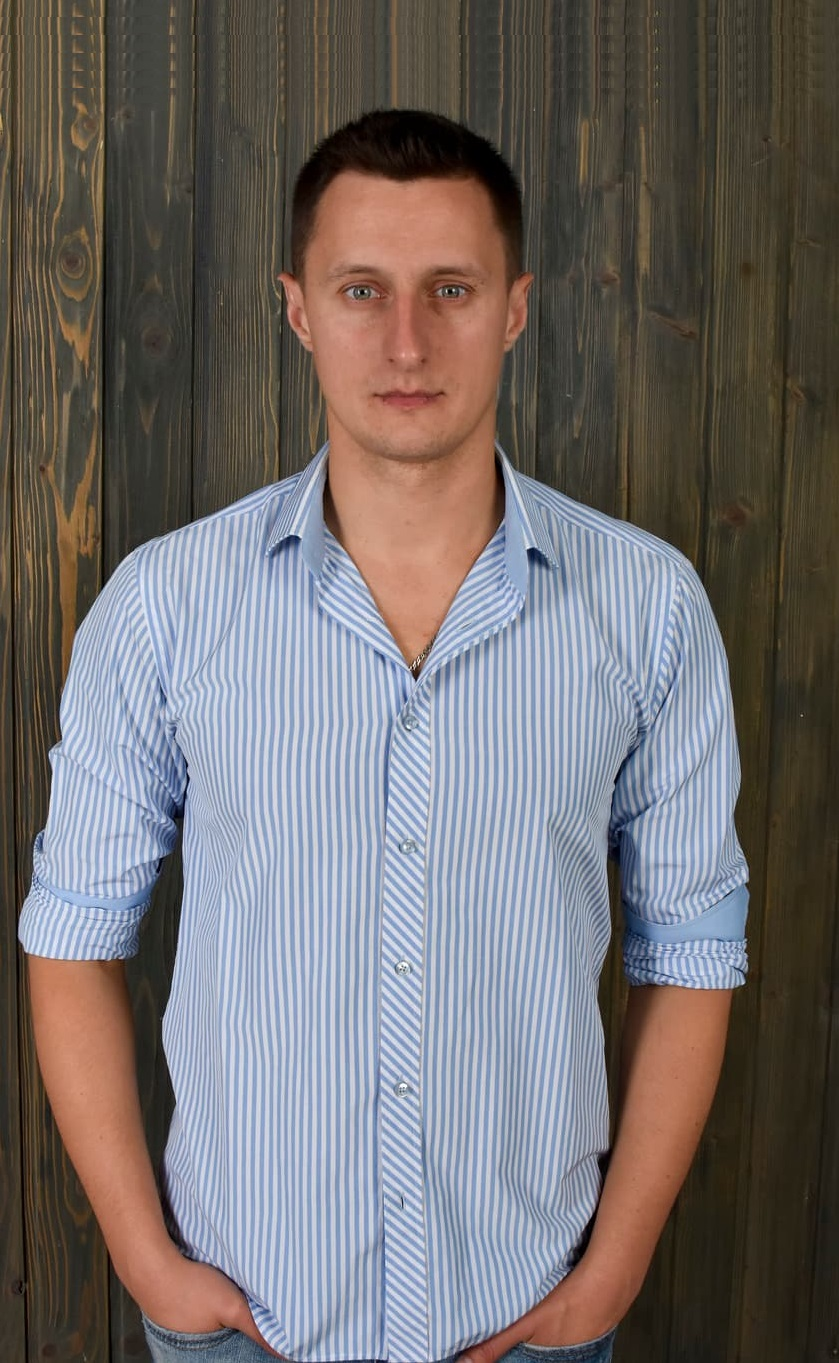
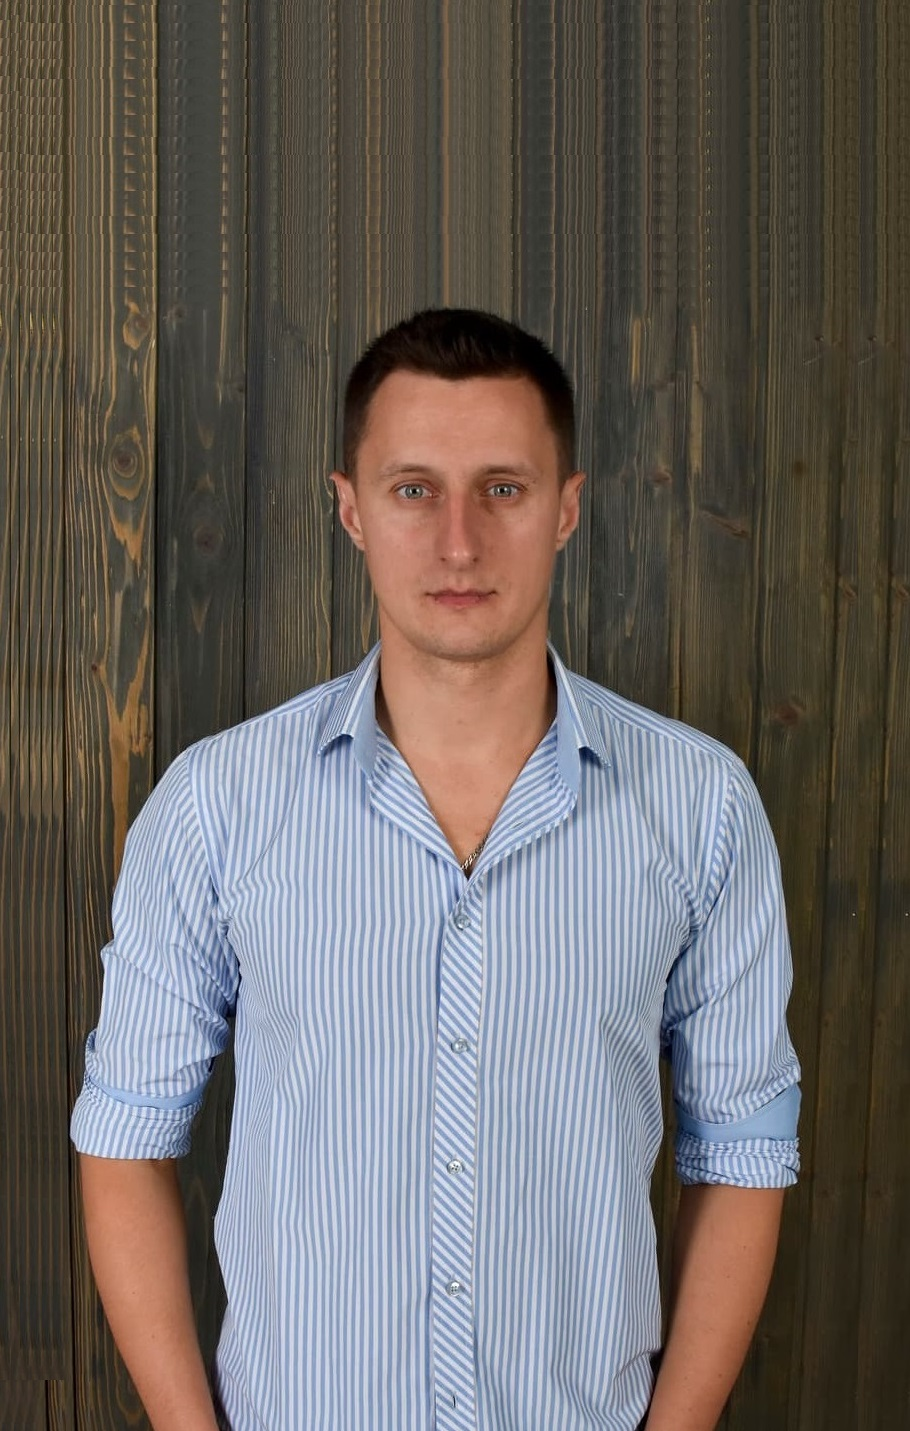
Alex special

diff --git a/src/partials/teamModal.html b/src/partials/teamModal.html
@@ -30,7 +30,7 @@
                 <a class="social__element social__email" target="_blank" href="mailto: san4oss91@gmail.com">san4oss91@gmail.com</a> 
             </li>
             <li class="team__element">
-                <div class="img-wraper">
+                <div class="img-wraper img-wraper--alex">
                     <img src="./images/teammate/alex.jpg" alt="Gryshchenko Oleksii">
                 </div>
                 <h3 class="teammate__name">Gryshchenko Oleksii</h3>

diff --git a/src/sass/teamModal.scss b/src/sass/teamModal.scss
@@ -92,9 +92,6 @@
   position: relative;
   padding-top: 95%;
   z-index: 1;
-  &--oleg {
-    padding-top: 80%;
-  }
   img {
     border-top-left-radius: 4px;
     border-top-right-radius: 4px;
@@ -184,7 +181,6 @@
   .img-wraper {
     width: 100%;
     height: 300px;
-    padding-top: 90%;
   }
   .team-modal {
     position: relative;
